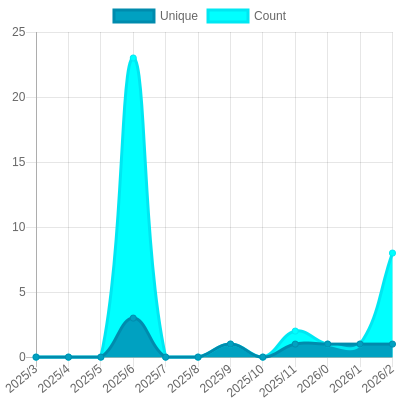
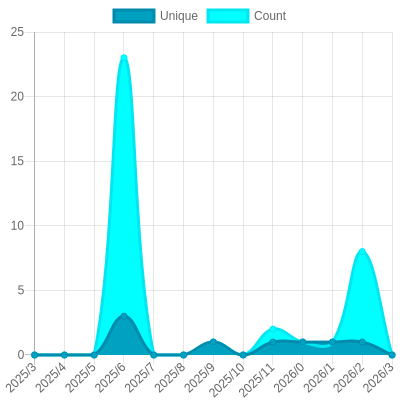
Update views

Changed region(s): [[0.03, 0.09, 0.99, 0.99], [0.03, 0.06, 0.06, 0.09]]

diff --git a/README.md b/README.md
@@ -26,7 +26,7 @@ The project created and maintained by [gayanvoice](https://github.com/gayanvoice
 			</a>
 		</td>
 		<td>
-			2025/3/30 1:04 AM UTC
+			2025/3/31 1:02 AM UTC
 		</td>
 		<td>
 			9
@@ -37,7 +37,7 @@ The project created and maintained by [gayanvoice](https://github.com/gayanvoice
 	</tr>
 </table>
 
-<small><i>Last updated on 2025/4/1 12:25 PM UTC</i></small>
+<small><i>Last updated on 2025/4/2 1:01 AM UTC</i></small>
 
 ## ✂Copy and 📋 Paste
 ### Total Views Badge

diff --git a/readme/692100595/year.md b/readme/692100595/year.md
@@ -20,6 +20,17 @@
 	</tr>
 	<tr>
 		<td>
+			<code>2025/4/1</code>
+		</td>
+		<td>
+			<code>0</code>
+		</td>
+		<td>
+			<code>0</code>
+		</td>
+	</tr>
+	<tr>
+		<td>
 			<code>2025/3/1</code>
 		</td>
 		<td>
@@ -153,7 +164,7 @@
 </table>
 
 </details>
-<small><i>Last updated on 2025/4/1 12:25 PM UTC</i></small>
+<small><i>Last updated on 2025/4/2 1:00 AM UTC</i></small>
 
 ## ✂Copy and 📋 Paste
 ### SVG Badge
